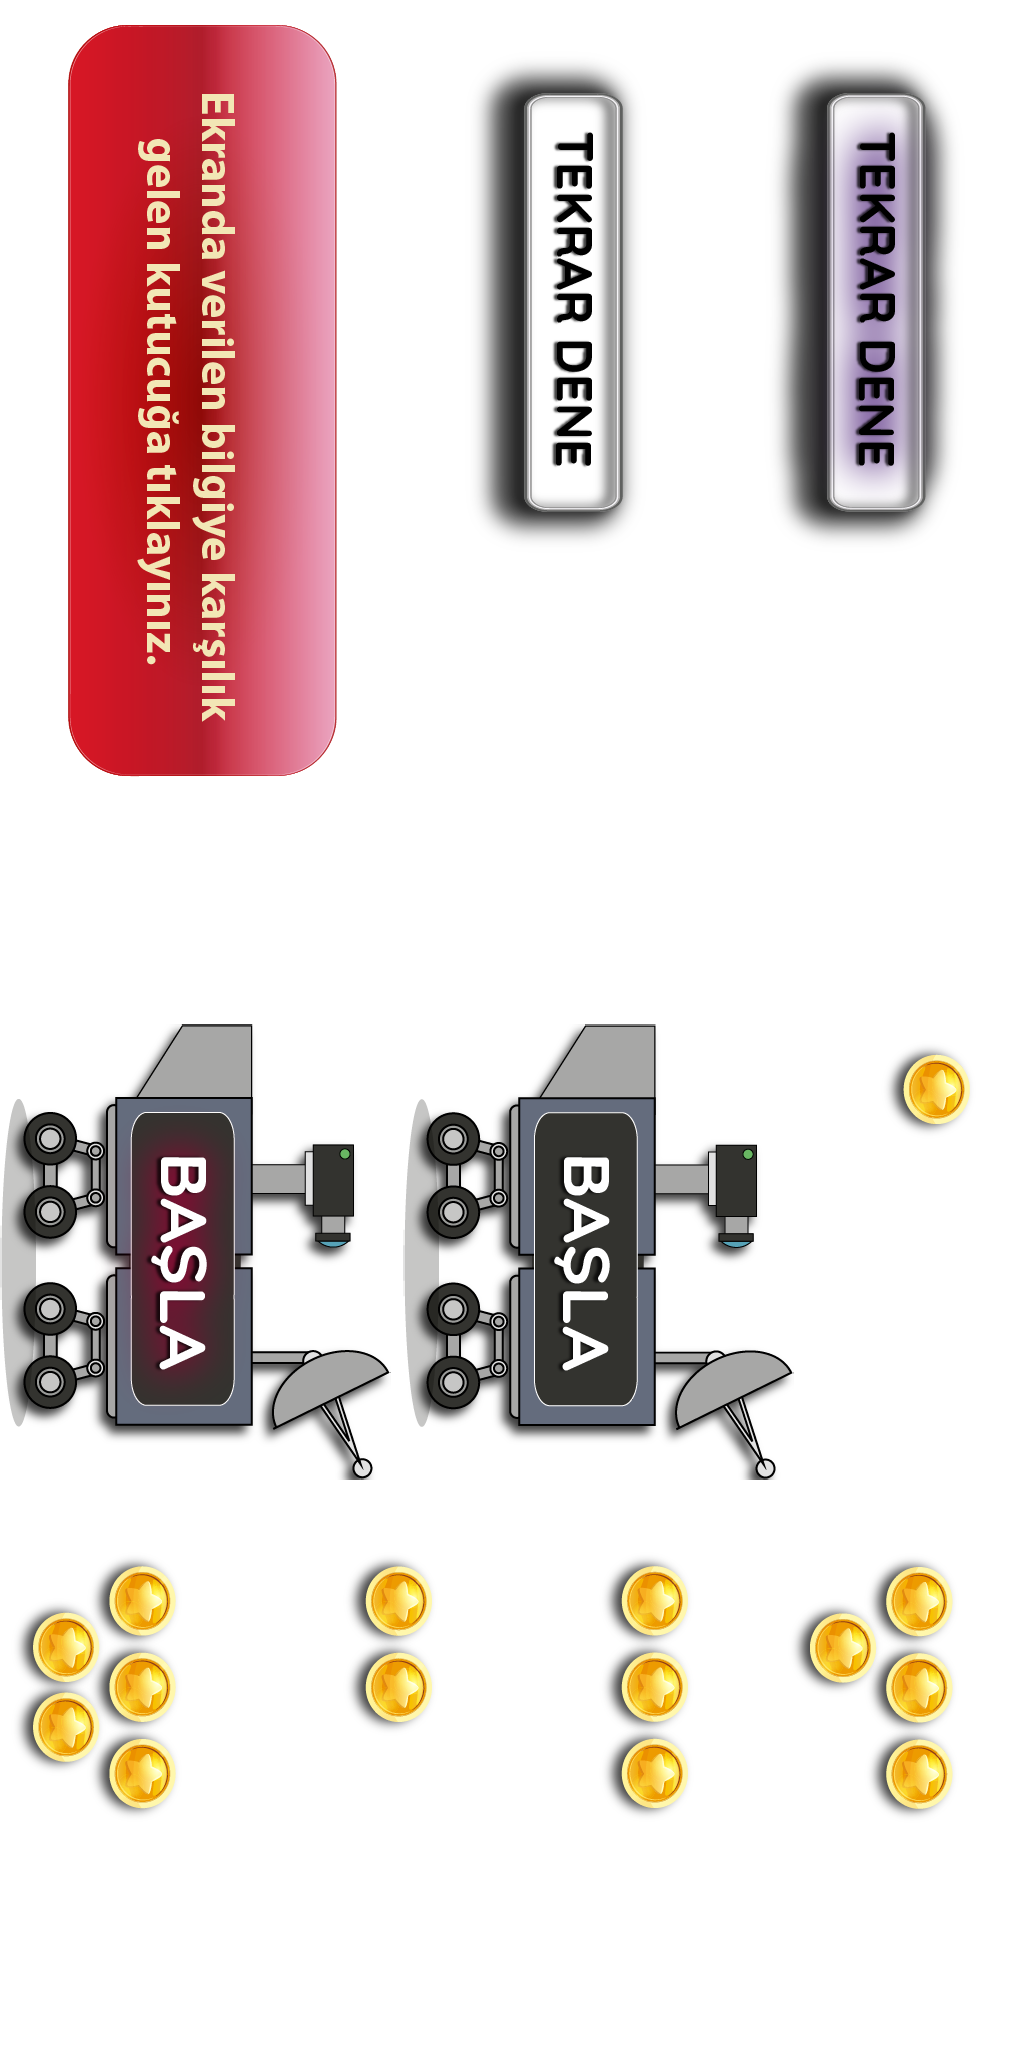
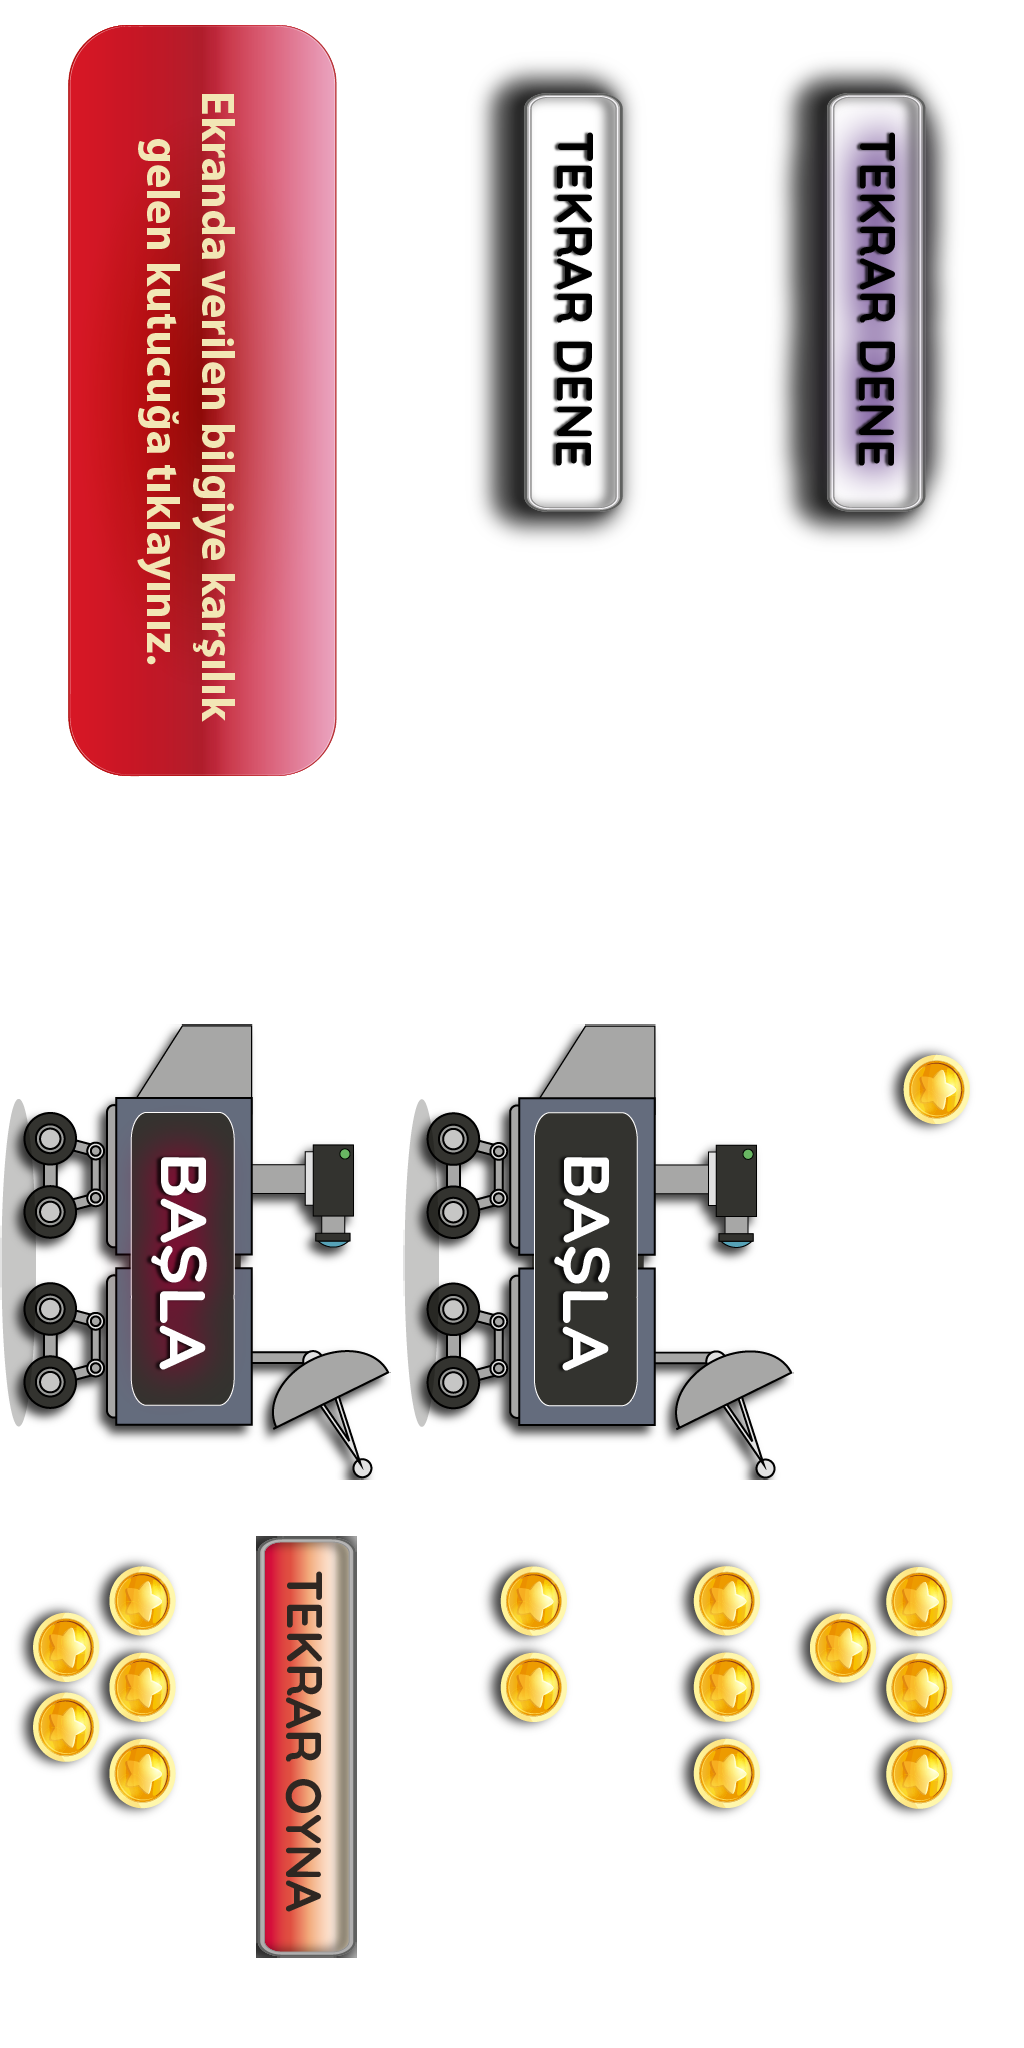
son tekrar oyna

Changed region(s): [[0.25, 0.75, 0.4375, 0.9688], [0.5938, 0.75, 0.75, 0.9062], [0.4688, 0.75, 0.5625, 0.8438]]

diff --git a/scripts/c3runtime.js b/scripts/c3runtime.js
@@ -4298,6 +4298,7 @@ self.C3_JsPropNameTable = [
 	{dogruText: 0},
 	{yanlisText: 0},
 	{Sprite: 0},
+	{BtnTekrarOyna: 0},
 	{Butonlar: 0},
 	{dy: 0},
 	{oyunButon: 0},
